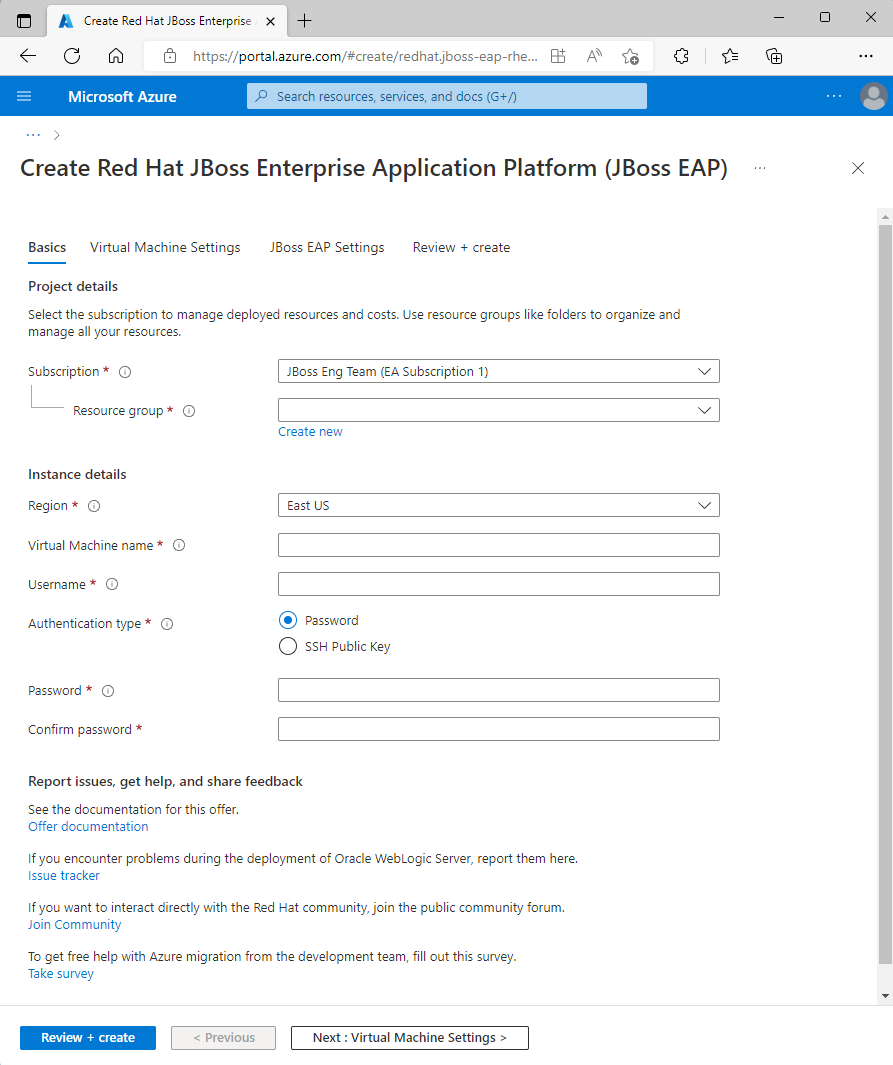
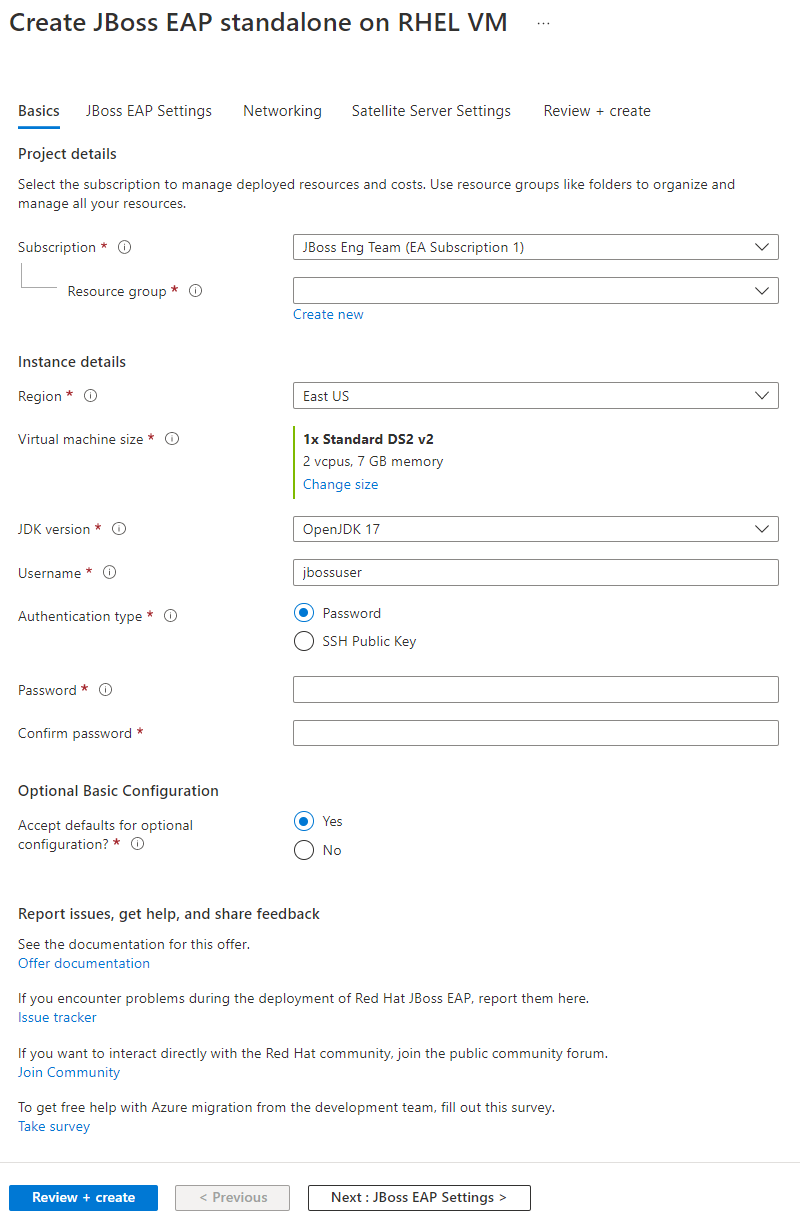
Update steps and screenshots (#3876)

diff --git a/articles/java/ee/jboss-eap-single-server-azure-vm.md b/articles/java/ee/jboss-eap-single-server-azure-vm.md
@@ -40,13 +40,13 @@ The steps in this section direct you to deploy JBoss EAP Server on Azure VMs.
 
 The following steps show you how to find the JBoss EAP Server on Azure VM offer and fill out the **Basics** pane.
 
-1. In the search bar at the top of the Azure portal, enter *JBoss EAP*. In the auto-suggested search results, in the **Marketplace** section, select **Red Hat JBoss Enterprise Application Platform (JBoss EAP)**.
+1. In the search bar at the top of the Azure portal, enter *JBoss EAP*. In the auto-suggested search results, in the **Marketplace** section, select **JBoss EAP standalone on RHEL VM**.
 
    :::image type="content" source="media/jboss-eap-single-server-azure-vm/marketplace-search-results.png" alt-text="Screenshot of Azure portal showing JBoss EAP Server on Azure VM in search results." lightbox="media/jboss-eap-single-server-azure-vm/marketplace-search-results.png":::
 
-   In the drop-down menu, ensure **JBoss EAP 7 (BYOS) on RHEL 8 (PAYG)** is selected.
+   In the drop-down menu, ensure **PAYG** is selected.
 
-   Alternatively, you can also go directly to the [Red Hat JBoss Enterprise Application Platform (JBoss EAP)](https://aka.ms/jboss-eap-on-vm-payg) offer. In this case, the correct plan is already selected for you.
+   Alternatively, you can also go directly to the [JBoss EAP standalone on RHEL VM](https://aka.ms/eap-vm-single-portal) offer. In this case, the correct plan is already selected for you.
 
    In either case, this offer deploys JBoss EAP by providing your Red Hat subscription at deployment time, and runs it on Red Hat Enterprise Linux using a pay-as-you-go payment configuration for the base VM.
 
@@ -54,28 +54,24 @@ The following steps show you how to find the JBoss EAP Server on Azure VM offer 
 1. On the **Basics** pane, ensure the value shown in the **Subscription** field is the same one that has the roles listed in the prerequisites section.
 1. You must deploy the offer in an empty resource group. In the **Resource group** field, select **Create new** and fill in a value for the resource group. Because resource groups must be unique within a subscription, pick a unique name. An easy way to have unique names is to use a combination of your initials, today's date, and some identifier. For example, *ejb0823jbosseapvm*.
 1. Under **Instance details**, select the region for the deployment.
-1. Fill in virtual machine name for the **Virtual Machine name**. For example, *jbosseapvm*.
-1. Fill in username for the **Username**. For example, *jbosseapvmuser*.
+1. Leave the default VM size for the **Virtual machine size**.
+1. Leave the default option **OpenJDK 17** for the **JDK version**.
+1. Leave the default value **jbossuser** for the **Username**.
 1. Leave the default option **Password** for the **Authentication type**.
 1. Fill in password for the **Password**. Use the same value for the **Confirm password**.
+1. Under **Optional Basic Configuration**, leave the default option **Yes** for the **Accept defaults for optional configuration**.
 1. Scroll to the bottom of the **Basics** pane and notice the helpful links for **Report issues, get help, and share feedback**.
-1. Select **Next: Virtual Machine Settings**.
-
-The following steps show you how to fill out **Virtual Machine Settings** pane.
-
-1. Leave the default VM size for the **Virtual machine size**.
-1. Under **Configure virtual networks**, leave the default virtual network for the **Virtual network** and the default subnet for the **Subnet**.
-1. Select option **off** for the **Boot diagnostics**.
-1. Select **Next: Satellite Server Settings**.
 1. Select **Next: JBoss EAP Settings**.
 
 The following steps show you how to fill out **JBoss EAP Settings** pane and start the deployment.
 
-1. Fill in JBoss EAP admin username for the **JBoss EAP Admin username**. For example, *jbosseapadmin*. Write down the value for later use.
+1. Leave the default value **jbossadmin** for the **JBoss EAP Admin username**.
 1. Fill in JBoss EAP password for the **JBoss EAP password**. Use the same value for the **Confirm password**. Write down the value for later use.
 1. Fill in your RHSM username for the **RHSM username**. The value is the same one that has been prepared in the prerequisites section.
 1. Fill in your RHSM password for the **RHSM password**. Use the same value for the **Confirm password**. The value is the same one that has been prepared in the prerequisites section.
 1. Fill in your RHSM pool ID for the **RHSM Pool ID with EAP entitlement**. The value is the same one that has been prepared in the prerequisites section.
+1. Select **Next: Networking**.
+1. Select **Next: Satellite Server Settings**.
 1. Select **Review + create**. Ensure the green **Validation Passed** message appears at the top. If the message doesn't appear, fix any validation problems, then select **Review + create** again.
 1. Select **Create**.
 1. Track the progress of the deployment on the **Deployment is in progress** page.
@@ -102,7 +98,7 @@ By default, the JBoss EAP Server is deployed on an Azure VM in a dedicated virtu
 
    :::image type="content" source="media/jboss-eap-single-server-azure-vm/jboss-eap-console-login.png" alt-text="Screenshot of JBoss EAP management console sign-in screen." lightbox="media/jboss-eap-single-server-azure-vm/jboss-eap-console-login.png":::
 
-1. Fill in the value of **JBoss EAP Admin username** you specified before for the **Username**. Fill in the value of **JBoss EAP password** you specified before for the **Password**. Select **Sign in**.
+1. Fill in the value of **JBoss EAP Admin username** which is **jbossadmin**. Fill in the value of **JBoss EAP password** you specified before for the **Password**. Select **Sign in**.
 1. You should see the familiar **Red Hat JBoss Enterprise Application Platform** management console welcome page as shown in the following screenshot.
 
    :::image type="content" source="media/jboss-eap-single-server-azure-vm/jboss-eap-console-welcome.png" alt-text="Screenshot of JBoss EAP management console welcome page." lightbox="media/jboss-eap-single-server-azure-vm/jboss-eap-console-welcome.png":::
